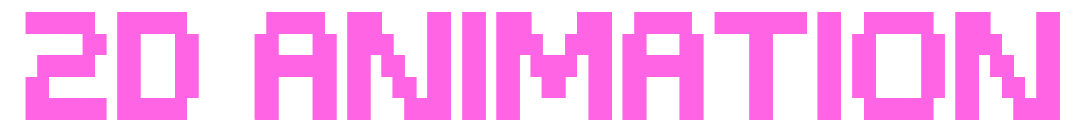
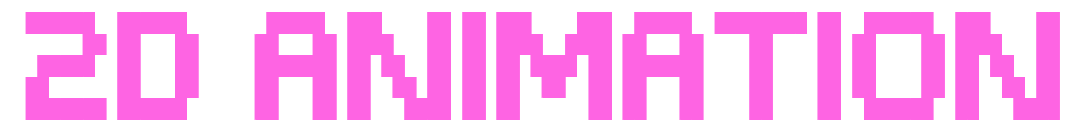
a

diff --git a/index.html b/index.html
@@ -15,9 +15,10 @@
 <center>
 <a href="http://www.instagram.com/vicentevvga"><img src="./icons/icon_instagram.png" height="40"></a>
 <a href="https://www.linkedin.com/in/vicentevvga/"><img src="./icons/icon_linkedin.png" height="40"></a>
-<a href="mailto:vicente.delvalle@gmail.com"><img src="./icons/icon_mail.png" height="40"></a>
+<a href="mailto:vicente.delvalle@gmail.com"><img src="./icons/icon_mail.png" height="40"></a></h1>
+
 </center>
-<iframe src="banner.html" frameborder="0" width="100%" scrolling="no" height="150px"></iframe>
+<iframe src="banner.html" frameborder="0" width="100%" scrolling="no" height="170px"></iframe>
 
 
 <center>
@@ -30,17 +31,12 @@
 </h1>
 <br>
 
-<!-- <pre>
 
-██████  ██████       █████  ███    ██ ██ ███    ███  █████  ████████ ██  ██████  ███    ██     ██████  ███████ ███████ ██      
-     ██ ██   ██     ██   ██ ████   ██ ██ ████  ████ ██   ██    ██    ██ ██    ██ ████   ██     ██   ██ ██      ██      ██      
- █████  ██   ██     ███████ ██ ██  ██ ██ ██ ████ ██ ███████    ██    ██ ██    ██ ██ ██  ██     ██████  █████   █████   ██      
-██      ██   ██     ██   ██ ██  ██ ██ ██ ██  ██  ██ ██   ██    ██    ██ ██    ██ ██  ██ ██     ██   ██ ██      ██      ██      
-███████ ██████      ██   ██ ██   ████ ██ ██      ██ ██   ██    ██    ██  ██████  ██   ████     ██   ██ ███████ ███████ ███████ 
-                                                                                                                                                                                                                                                          
-</pre>  -->
-<img src="./titles/2d_animation.png" height="70"></a>
-<img src="./titles/reel.png" height="70"></a>
+
+                                                                                                                    
+</pre>
+<img src="./titles/2d_animation.png" height="60"></a>
+<img src="./titles/reel.png" height="60"></a>
 <br>  
 I make cartoons move using <b>ToonBoom Harmony</b>, <b>Adobe Animate</b> and <b>Clip Studio Paint</b>
 
@@ -48,7 +44,7 @@ I make cartoons move using <b>ToonBoom Harmony</b>, <b>Adobe Animate</b> and <b>
 <div class="gallery">
 
 <div class="video-frame">
-	<div style="padding:56.25% 0 0 0;position:relative;"><iframe src="https://player.vimeo.com/video/1109161166?badge=0&amp;autopause=0&amp;player_id=0&amp;app_id=58479" frameborder="0" allow="autoplay; fullscreen; picture-in-picture; clipboard-write; encrypted-media; web-share" referrerpolicy="strict-origin-when-cross-origin" style="position:absolute;top:0;left:0;width:100%;height:100%;" title="2025_08_11 Vicente Del Valle - 2D animation demo reel"></iframe></div><script src="https://player.vimeo.com/api/player.js"></script>
+	<div style="padding:56.25% 0 0 0;position:relative;"><iframe src="https://player.vimeo.com/video/1109161166?badge=0&amp;autopause=0&amp;player_id=0&amp;app_id=58479" frameborder="0" allow="autoplay; fullscreen; picture-in-picture; clipboard-write; encrypted-media; web-share" referrerpolicy="strict-origin-when-cross-origin" style="position:absolute;top:0;left:0;width:80%;height:100%;" title="2025_08_11 Vicente Del Valle - 2D animation demo reel"></iframe></div><script src="https://player.vimeo.com/api/player.js"></script>
 </div>
 
 </div class="gallery">

diff --git a/banner.html b/banner.html
@@ -1,25 +1,10 @@
 <link href="main.css" rel="stylesheet"/>
 <center> 
-<!-- <a href="http://www.instagram.com/vicentevvga"><img src="./icons/icon_instagram.png" height="40"></a>
-<a href="https://www.linkedin.com/in/vicentevvga/"><img src="./icons/icon_linkedin.png" height="40"></a>
-<a href="mailto:vicente.delvalle@gmail.com"><img src="./icons/icon_mail.png" height="40"></a></h1>
-<br>
-<br>
-<br> -->
-<img src="./titles/vicente_del_valle.png"    height="90"></a>
 
-<!-- 	<br>
-	<pre>
-	██╗   ██╗██╗ ██████╗███████╗███╗   ██╗████████╗███████╗    ██╗   ██╗██╗   ██╗ ██████╗  █████╗ 
-	██║   ██║██║██╔════╝██╔════╝████╗  ██║╚══██╔══╝██╔════╝    ██║   ██║██║   ██║██╔════╝ ██╔══██╗
-	██║   ██║██║██║     █████╗  ██╔██╗ ██║   ██║   █████╗      ██║   ██║██║   ██║██║  ███╗███████║
-	╚██╗ ██╔╝██║██║     ██╔══╝  ██║╚██╗██║   ██║   ██╔══╝      ╚██╗ ██╔╝╚██╗ ██╔╝██║   ██║██╔══██║
-	 ╚████╔╝ ██║╚██████╗███████╗██║ ╚████║   ██║   ███████╗     ╚████╔╝  ╚████╔╝ ╚██████╔╝██║  ██║
-	  ╚═══╝  ╚═╝ ╚═════╝╚══════╝╚═╝  ╚═══╝   ╚═╝   ╚══════╝      ╚═══╝    ╚═══╝   ╚═════╝ ╚═╝  ╚═╝
-	</pre> -->
-<br>
-<b>2D artist | vicente.delvalle@gmail.com</b>
-<br>
-***********************************************************
+	<img src="./titles/vicente_del_valle.png"    height="90"></a>
+	<br>
+	<b>2D artist | vicente.delvalle@gmail.com</b>
+	<br>
+
 
 </center> 

diff --git a/rigs.html b/rigs.html
@@ -19,7 +19,7 @@
 <a href="https://www.linkedin.com/in/vicentevvga/"><img src="./icons/icon_linkedin.png" height="40"></a>
 <a href="mailto:vicente.delvalle@gmail.com"><img src="./icons/icon_mail.png" height="40"></a></h1>
 </center>
-<iframe src="banner.html" frameborder="0" width="100%" scrolling="no" height="150px"></iframe>
+<iframe src="banner.html" frameborder="0" width="100%" scrolling="no" height="170px"></iframe>
 
 
 <center>
@@ -41,8 +41,8 @@
                                                                                                                                                     
                                                                                                                                                                      
 </pre>  -->
-<img src="./titles/2d_character.png" height="70"></a>
-<img src="./titles/rigging.png" height="70"></a>
+<img src="./titles/2d_character.png" height="60"></a>
+<img src="./titles/rigging.png" height="60"></a>
 <br>  
 I build rigs using <b>ToonBoom_Harmony</b> and <b>Adobe Animate</b> (a.k.a Flash)
 

diff --git a/life_drawing.html b/life_drawing.html
@@ -19,7 +19,7 @@
 <a href="https://www.linkedin.com/in/vicentevvga/"><img src="./icons/icon_linkedin.png" height="40"></a>
 <a href="mailto:vicente.delvalle@gmail.com"><img src="./icons/icon_mail.png" height="40"></a></h1>
 </center>
-<iframe src="banner.html" frameborder="0" width="100%" scrolling="no" height="150px"></iframe>
+<iframe src="banner.html" frameborder="0" width="100%" scrolling="no" height="170px"></iframe>
 
 
 
@@ -44,8 +44,8 @@
 ███████ ██ ██      ███████     ██████  ██   ██ ██   ██  ███ ███  ██ ██   ████  ██████  
                                                                                                                                                                               
 </div> -->
-<img src="./titles/life.png" height="70"></a>
-<img src="./titles/drawing.png" height="70"></a>
+<img src="./titles/life.png" height="60"></a>
+<img src="./titles/drawing.png" height="60"></a>
 <br>
 Naked people and fancy lines                         
 

diff --git a/illustration.html b/illustration.html
@@ -22,7 +22,7 @@
 <a href="https://www.linkedin.com/in/vicentevvga/"><img src="./icons/icon_linkedin.png" height="40"></a>
 <a href="mailto:vicente.delvalle@gmail.com"><img src="./icons/icon_mail.png" height="40"></a></h1>
 </center>
-<iframe src="banner.html" frameborder="0" width="100%" scrolling="no" height="150px"></iframe>
+<iframe src="banner.html" frameborder="0" width="100%" scrolling="no" height="170px"></iframe>
 
 
 
@@ -48,7 +48,7 @@
 ██ ███████ ███████  ██████  ███████    ██    ██   ██ ██   ██    ██    ██  ██████  ██   ████ 
                                                                                                                                                                                         
 </div> -->
-<img src="./titles/illustration.png" height="70"></a>
+<img src="./titles/illustration.png" height="60"></a>
 <br>
 Silly characters, mostly in pain                         
 

diff --git a/about2.html b/about2.html
@@ -20,7 +20,7 @@
 <a href="https://www.linkedin.com/in/vicentevvga/"><img src="./icons/icon_linkedin.png" height="40"></a>
 <a href="mailto:vicente.delvalle@gmail.com"><img src="./icons/icon_mail.png" height="40"></a></h1>
 </center>
-<iframe src="banner.html" frameborder="0" width="100%" scrolling="no" height="150px"></iframe>
+<iframe src="banner.html" frameborder="0" width="100%" scrolling="no" height="170px"></iframe>
 
 
 
@@ -44,7 +44,7 @@
 ██   ██ ██████   ██████   ██████     ██    
                                            
 </pre>  -->                                          
-<img src="./titles/about.png" height="70"></a>
+<img src="./titles/about.png" height="60"></a>
 <br>
 <br>
 
